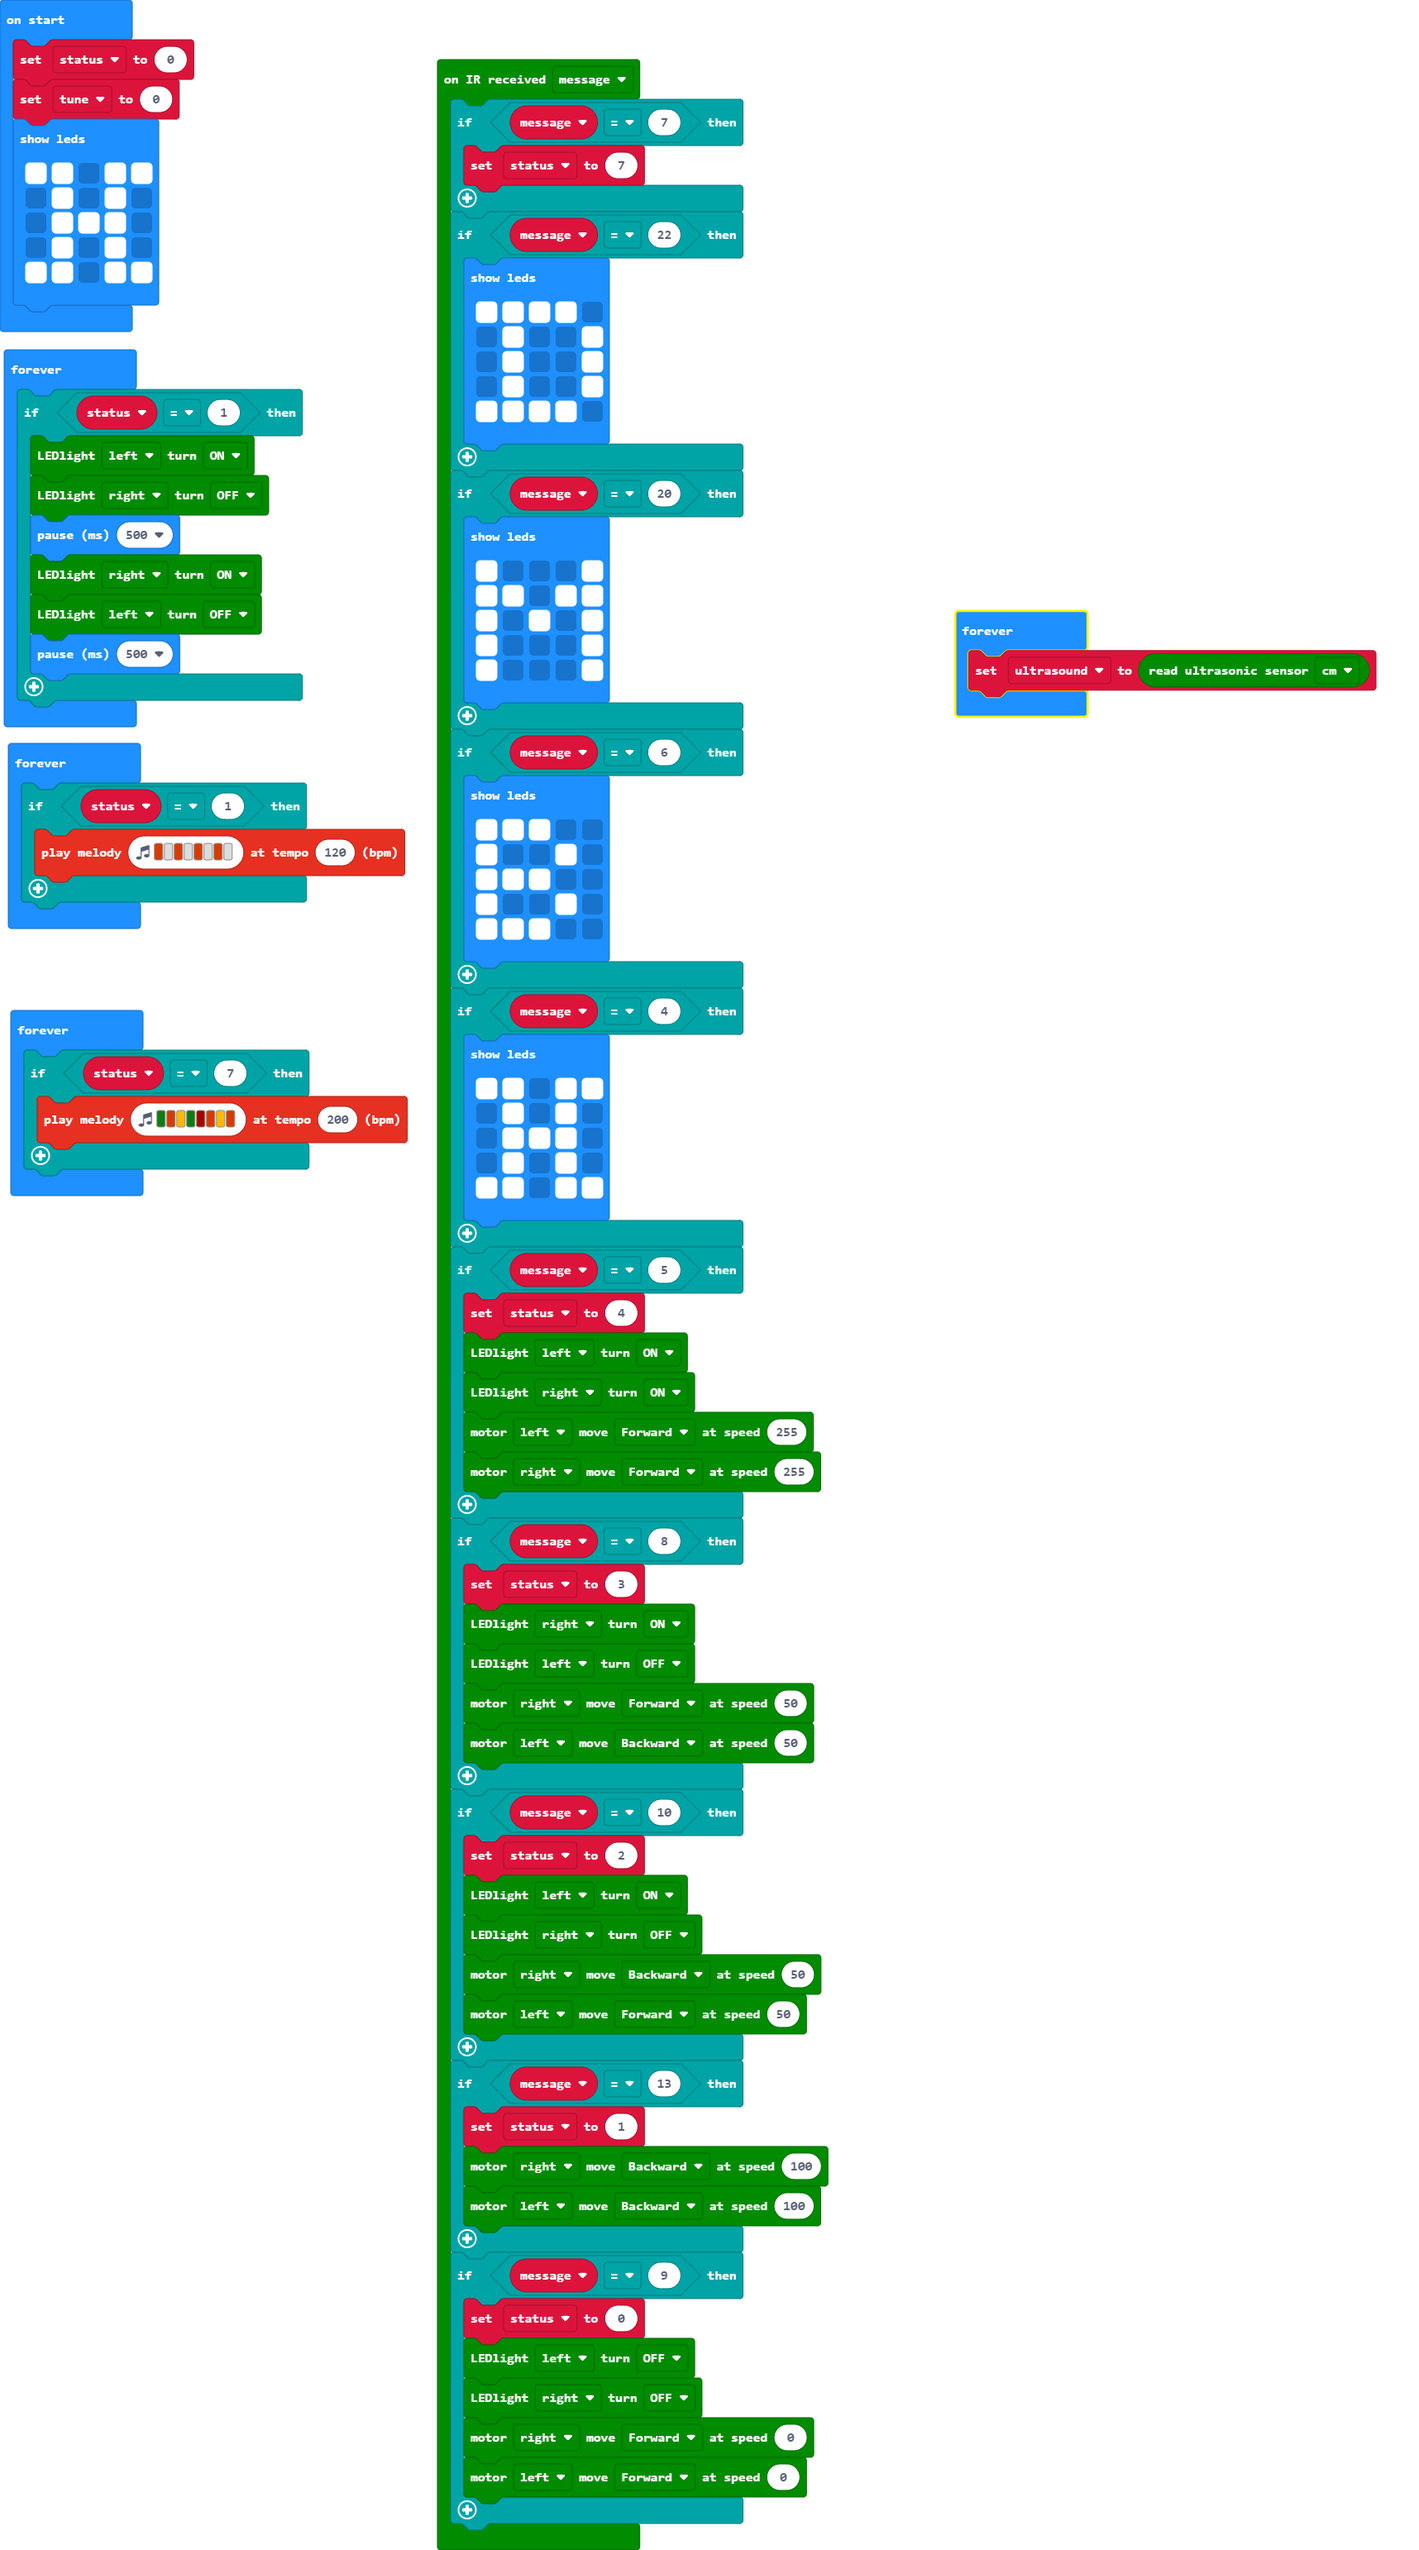
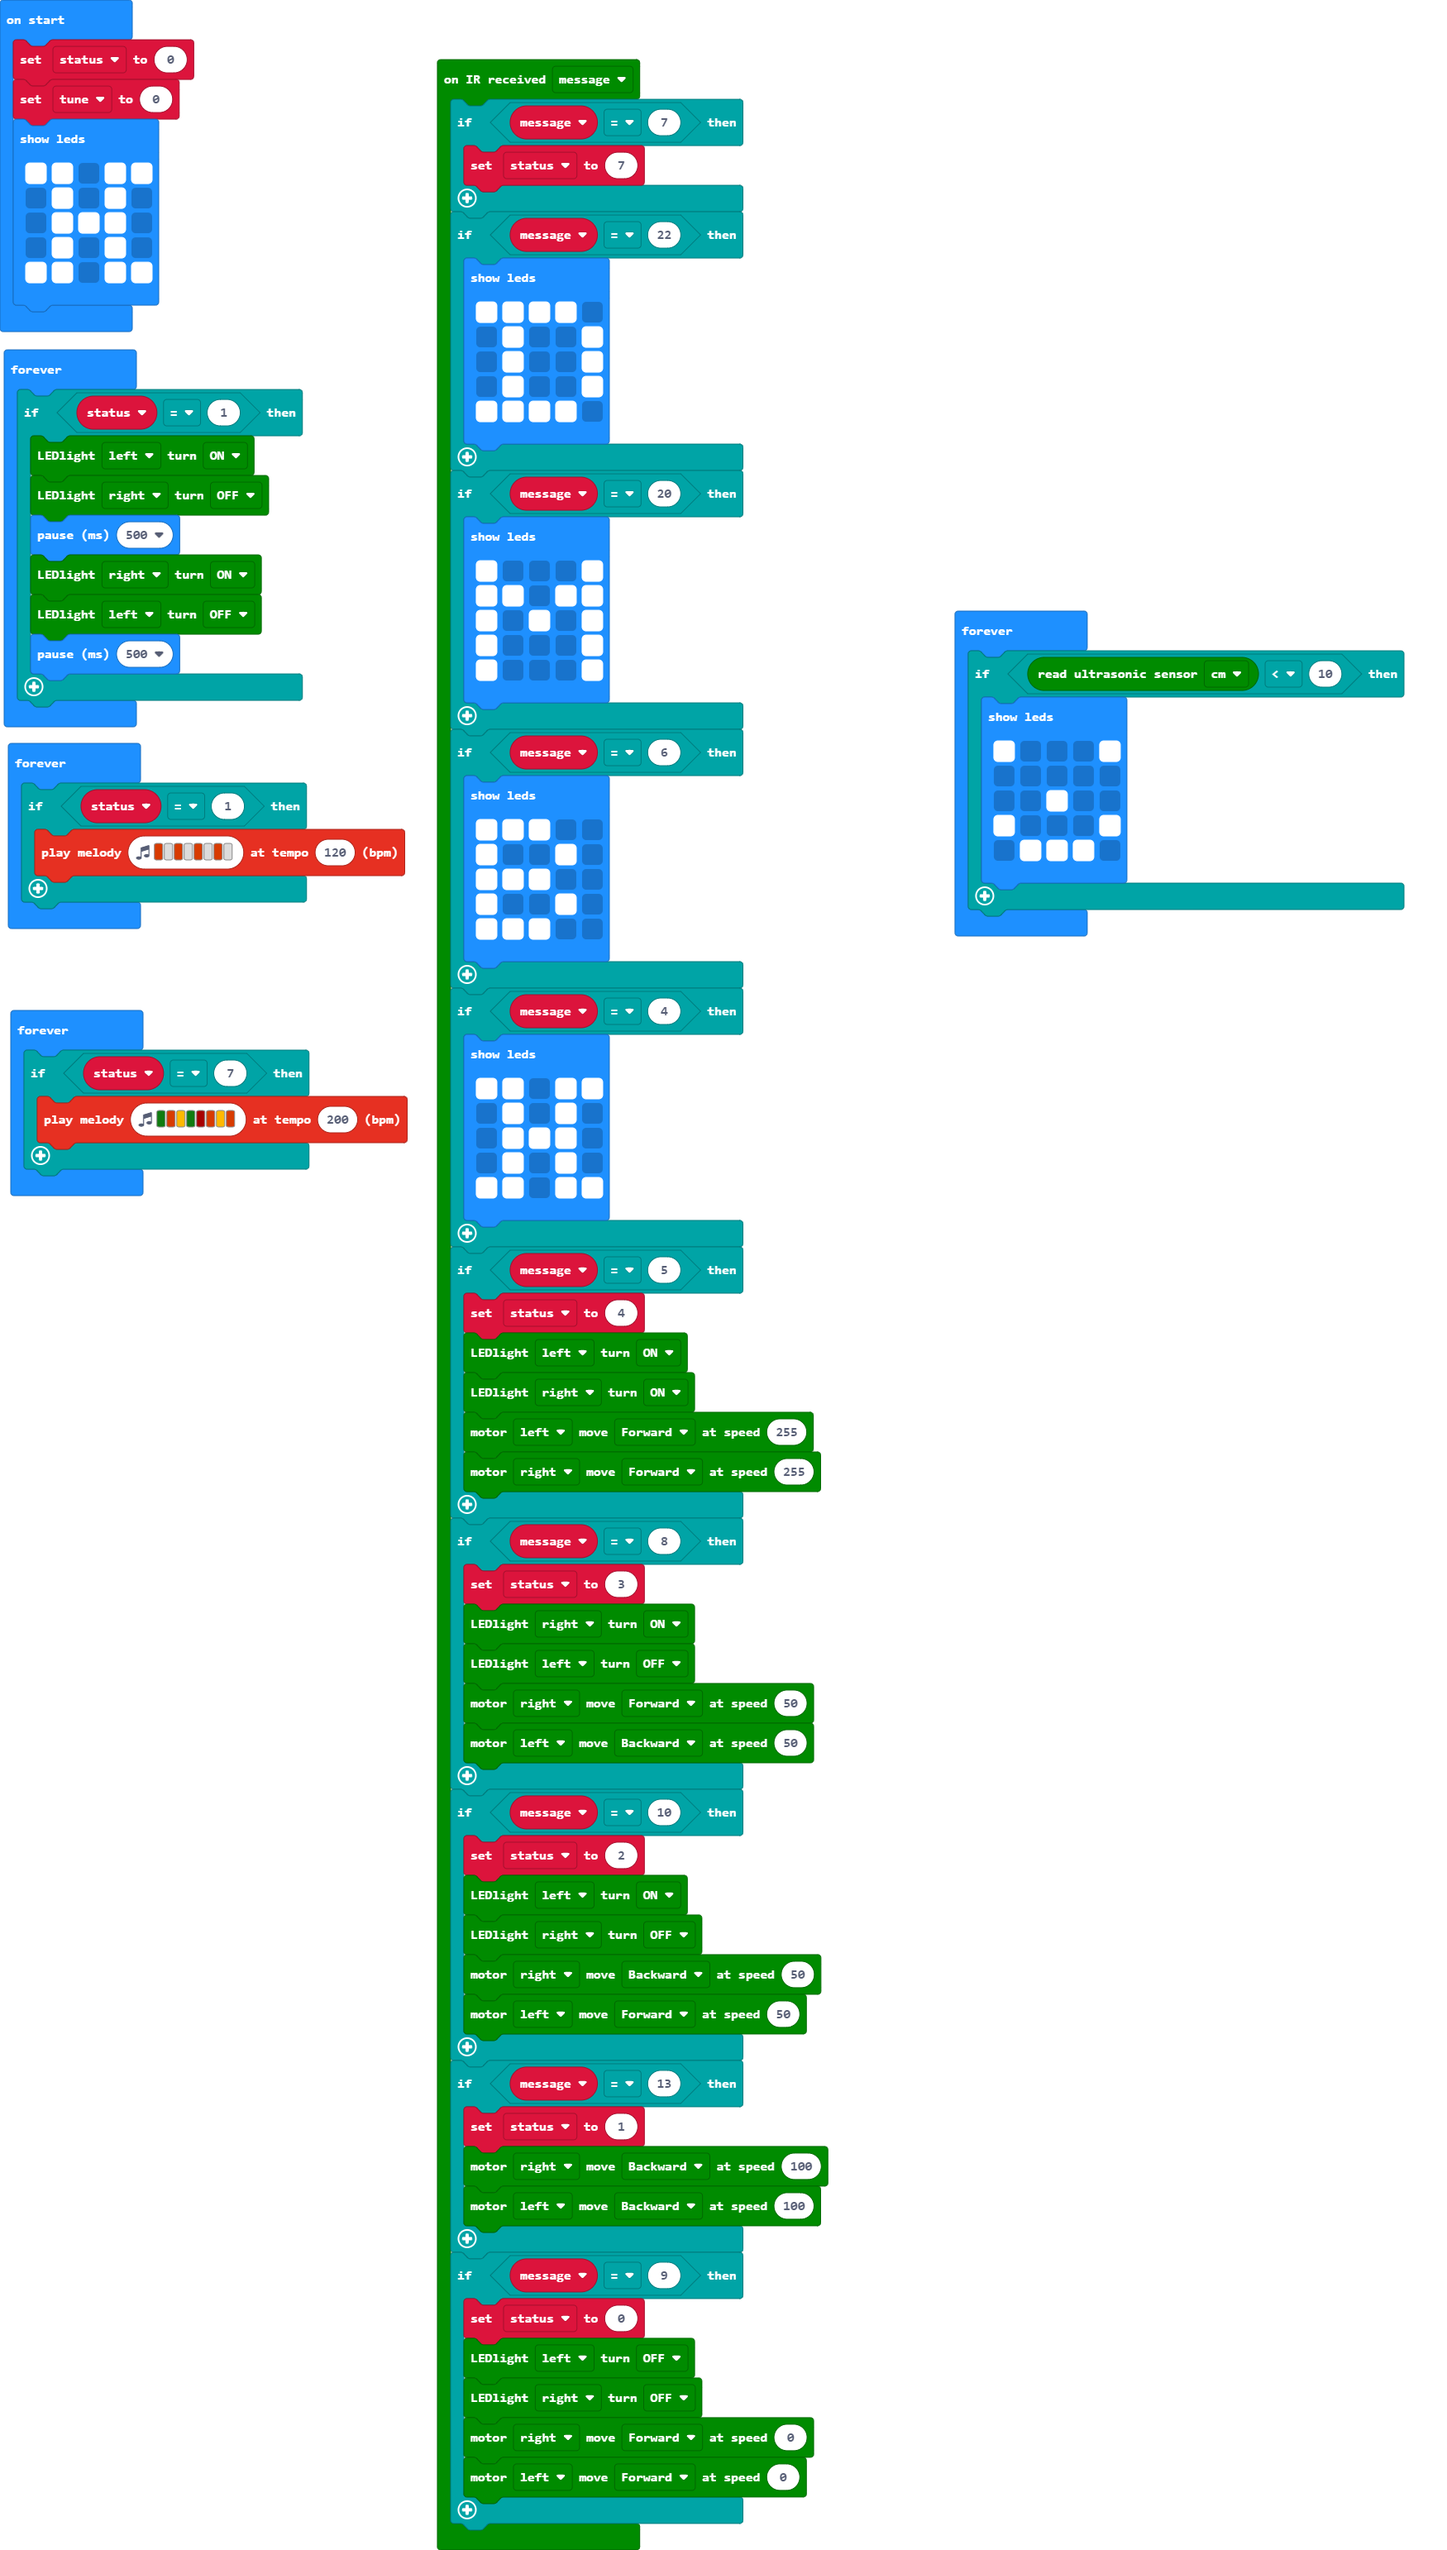
Update main.blocks, main.ts

diff --git a/main.ts b/main.ts
@@ -72,7 +72,6 @@ maqueen.IR_callbackUser(function (message) {
         maqueen.motorRun(maqueen.Motors.M1, maqueen.Dir.CW, 0)
     }
 })
-let ultrasound = 0
 let status = 0
 status = 0
 let tune = 0
@@ -94,7 +93,15 @@ basic.forever(function () {
     }
 })
 basic.forever(function () {
-    ultrasound = maqueen.Ultrasonic(PingUnit.Centimeters)
+    if (maqueen.Ultrasonic(PingUnit.Centimeters) < 10) {
+        basic.showLeds(`
+            # . . . #
+            . . . . .
+            . . # . .
+            # . . . #
+            . # # # .
+            `)
+    }
 })
 basic.forever(function () {
     if (status == 1) {
